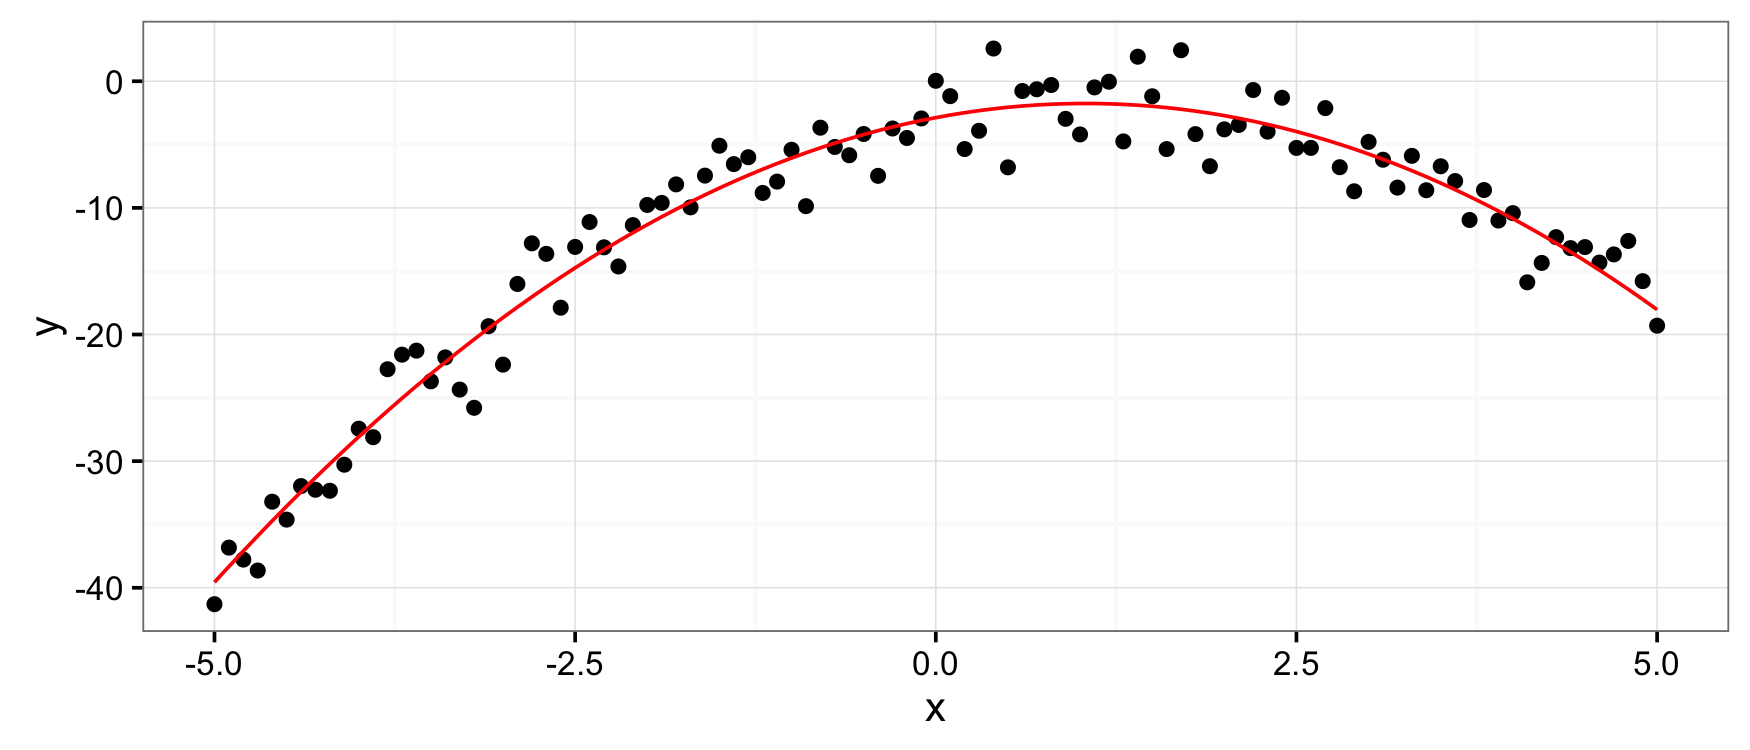
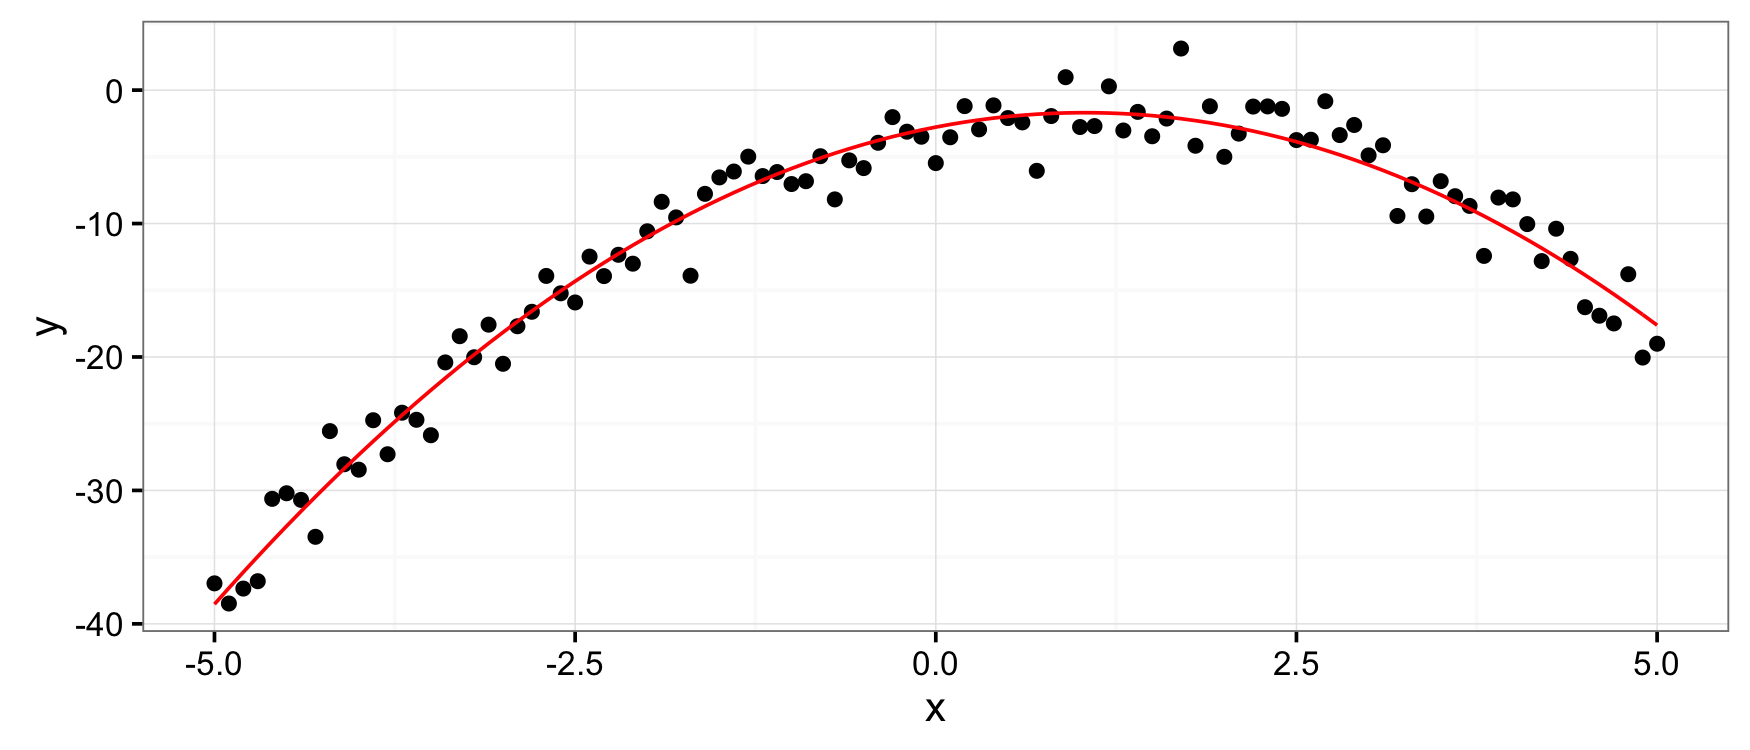
readme: components

diff --git a/README.md b/README.md
@@ -27,6 +27,17 @@ reorder(p, varorder = c("x","y"), order = "glex")
 #> x^3  +  2 x^2 y  +  x y^2  +  x^2  +  2 x y  +  y^2
 ```
 
+Vectors of polynomials (`mpolyList`'s) can be specified in the same way:
+
+``` r
+mp(c("(x+y)^2", "z"))
+#> x^2  +  2 x y  +  y^2
+#> z
+```
+
+Polynomial parts
+----------------
+
 You can extract pieces of polynoimals using the standard `[` operator, which works on its terms:
 
 ``` r
@@ -38,12 +49,56 @@ p[-1]
 #> x^2  +  2 x^2 y  +  2 x y  +  x y^2  +  y^2
 ```
 
-Vectors of polynomials (`mpolyList`'s) can be specified in the same way:
+There are also many other functions that can be used to piece apart polynomials, for example the leading term (default lex order):
 
 ``` r
-mp(c("(x+y)^2", "z"))
-#> x^2  +  2 x y  +  y^2
-#> z
+LT(p)
+#> x^3
+LC(p)
+#> [1] 1
+LM(p)
+#> x^3
+```
+
+You can also extract information about exponents:
+
+``` r
+exponents(p)
+#> [[1]]
+#> x y 
+#> 3 0 
+#> 
+#> [[2]]
+#> x y 
+#> 2 0 
+#> 
+#> [[3]]
+#> x y 
+#> 2 1 
+#> 
+#> [[4]]
+#> x y 
+#> 1 1 
+#> 
+#> [[5]]
+#> x y 
+#> 1 2 
+#> 
+#> [[6]]
+#> x y 
+#> 0 2
+multideg(p)
+#> x y 
+#> 3 0
+totaldeg(p)
+#> [1] 3
+monomials(p)
+#> x^3
+#> x^2
+#> 2 x^2 y
+#> 2 x y
+#> x y^2
+#> y^2
 ```
 
 Polynomial arithmetic
@@ -414,7 +469,7 @@ df$y <- with(df, -x^2 + 2*x - 3 + rnorm(n, 0, 2))
 
 mod <- lm(y ~ x + I(x^2), data = df)
 (p <- mod %>% as.mpoly %>% round)
-#> 2.153 x  -  1.037 x^2  -  2.873
+#> 2.091 x  -  1.012 x^2  -  2.772
 qplot(x, y, data = df) +
   stat_function(fun = as.function(p), colour = 'red')
 #> f(x)
